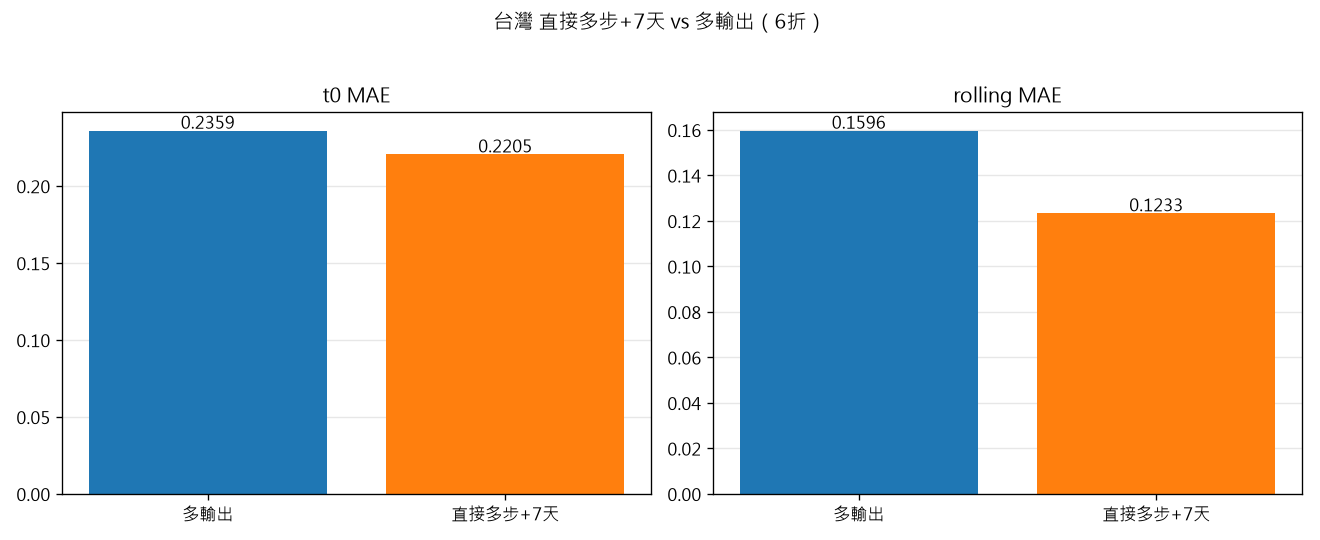
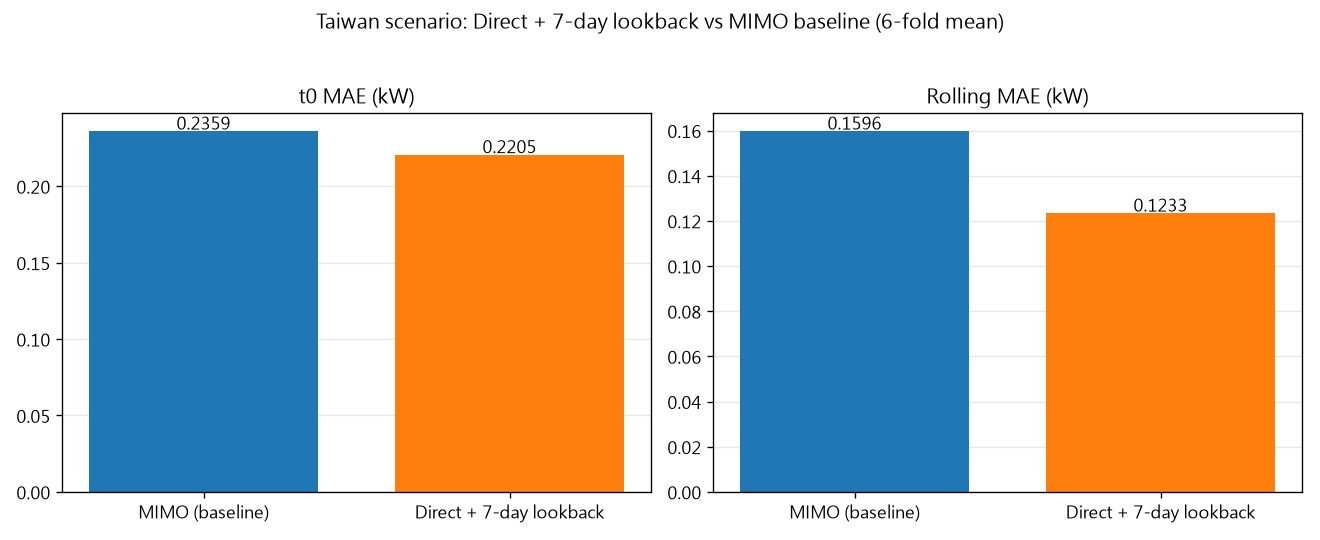
English method terms in figures; click-to-enlarge lightbox; wider gallery

diff --git a/index.html b/index.html
@@ -21,9 +21,9 @@
   th,td{border:1px solid var(--line);padding:8px 12px;text-align:left}
   th{background:#f1f0f7}
   td.num{text-align:right;font-variant-numeric:tabular-nums}
-  .gallery{display:grid;grid-template-columns:repeat(auto-fit,minmax(320px,1fr));gap:18px}
+  .gallery{display:grid;grid-template-columns:repeat(auto-fit,minmax(480px,1fr));gap:18px}
   figure{margin:0;background:var(--card);border:1px solid var(--line);border-radius:10px;padding:10px}
-  figure img{width:100%;border-radius:6px;display:block}
+  figure img{width:100%;border-radius:6px;display:block;cursor:zoom-in}
   figcaption{font-size:13px;color:var(--muted);margin-top:8px}
   figure.wide{grid-column:1/-1}
   ul.files{list-style:none;padding:0;margin:0;display:grid;grid-template-columns:repeat(auto-fit,minmax(300px,1fr));gap:8px}
@@ -31,6 +31,11 @@
   ul.files a{color:var(--accent);text-decoration:none;font-weight:600}
   ul.files small{color:var(--muted);display:block}
   .note{background:#f3fbf6;border-left:4px solid var(--accent2);padding:10px 14px;border-radius:6px;font-size:14px;margin:14px 0}
+  #lb{position:fixed;inset:0;background:rgba(0,0,0,.88);display:none;align-items:center;justify-content:center;z-index:99;cursor:zoom-out;padding:24px}
+  #lb.on{display:flex}
+  #lb img{max-width:96vw;max-height:92vh;width:auto;height:auto;border-radius:6px;box-shadow:0 8px 40px rgba(0,0,0,.6)}
+  #lb a{position:absolute;top:14px;right:18px;color:#fff;background:rgba(255,255,255,.15);padding:6px 12px;border-radius:6px;text-decoration:none;font-size:13px}
+  #lb a:hover{background:rgba(255,255,255,.3)}
   footer{margin-top:50px;color:var(--muted);font-size:13px;border-top:1px solid var(--line);padding-top:14px}
   footer a{color:var(--accent)}
 </style>
@@ -50,12 +55,13 @@
 </table>
 
 <h2>結果圖</h2>
+<p class="muted" style="margin:-6px 0 12px;color:#666;font-size:13px">點任一張圖可放大檢視；放大後再點一次或按 Esc 關閉，右上角可開啟原始檔。</p>
 <div class="gallery">
   <figure class="wide"><img src="results/figures/folds_curve.png" alt="folds_curve"><figcaption>6 折各取一個代表日：實際 vs 日初單次(t0) vs 日內滾動</figcaption></figure>
-  <figure><img src="results/figures/compare.png" alt="compare"><figcaption>直接多步+7 天 vs 多輸出 RF：t0 / rolling MAE（6 折）</figcaption></figure>
-  <figure><img src="results/figures/feature_importance_bar.png" alt="feature_importance_bar"><figcaption>特徵重要度長條圖</figcaption></figure>
-  <figure><img src="results/figures/feature_importance_detail.png" alt="feature_importance_detail"><figcaption>個別特徵重要度 Top-18</figcaption></figure>
-  <figure class="wide"><img src="results/figures/curves_t0.png" alt="curves_t0"><figcaption>6 折代表日整天預測：實際 vs 多輸出 vs 直接多步</figcaption></figure>
+  <figure><img src="results/figures/compare.png" alt="compare"><figcaption>Direct + 7-day lookback vs MIMO RF：t0 / rolling MAE（6 折）</figcaption></figure>
+  <figure class="wide"><img src="results/figures/feature_importance_bar.png" alt="feature_importance_bar"><figcaption>特徵重要度長條圖</figcaption></figure>
+  <figure class="wide"><img src="results/figures/feature_importance_detail.png" alt="feature_importance_detail"><figcaption>個別特徵重要度 Top-18</figcaption></figure>
+  <figure class="wide"><img src="results/figures/curves_t0.png" alt="curves_t0"><figcaption>6 折代表日整天預測：Actual vs MIMO vs Direct</figcaption></figure>
   <figure class="wide"><img src="results/figures/rolling_snapshots.png" alt="rolling_snapshots"><figcaption>日內滾動 — 6 個時點快照</figcaption></figure>
   <figure class="wide"><img src="results/figures/rolling.gif" alt="rolling"><figcaption>日內滾動動畫：每 15 分鐘刷新未來 24 小時</figcaption></figure>
   <figure class="wide"><img src="results/figures/rolling6.gif" alt="rolling6"><figcaption>6 折代表日同步滾動動畫（2×3）</figcaption></figure>
@@ -81,5 +87,16 @@
 
 <footer>本頁與所有檔案：<a href="https://github.com/souptomorrow-collab/load-report">github.com/souptomorrow-collab/load-report</a>（僅公開結果）</footer>
 </div>
+<div id="lb"><a id="lbopen" href="#" target="_blank" rel="noopener">開啟原始檔 ↗</a><img id="lbimg" alt=""></div>
+<script>
+(function(){
+  var lb=document.getElementById('lb'),im=document.getElementById('lbimg'),op=document.getElementById('lbopen');
+  document.querySelectorAll('.gallery figure img').forEach(function(el){
+    el.addEventListener('click',function(){im.src=el.src;op.href=el.src;lb.classList.add('on');});
+  });
+  lb.addEventListener('click',function(e){if(e.target!==op){lb.classList.remove('on');im.src='';}});
+  document.addEventListener('keydown',function(e){if(e.key==='Escape'){lb.classList.remove('on');im.src='';}});
+})();
+</script>
 </body>
 </html>

diff --git a/results/README.md b/results/README.md
@@ -16,10 +16,10 @@
 | 檔案 | 內容 |
 |------|------|
 | `folds_curve.png` | 6 折各取一個代表日：實際 vs 日初單次(t0) vs 日內滾動 |
-| `feature_importance_bar.png` | 各時步（h=1/24/96）特徵重要度長條圖（區塊加總） |
-| `feature_importance_detail.png` | 各時步個別特徵重要度 Top-18 |
-| `compare.png` | 直接多步+7 天 vs 傳統多輸出 RF：t0 / rolling MAE（6 折） |
-| `curves_t0.png` | 6 折代表日整天預測：實際 vs 多輸出 vs 直接多步 |
+| `feature_importance_bar.png` | Per-step (h=1/24/96) feature importance, block sums |
+| `feature_importance_detail.png` | Per-step top-18 individual feature importance |
+| `compare.png` | Direct + 7-day lookback vs MIMO RF baseline：t0 / rolling MAE（6 折） |
+| `curves_t0.png` | 6 折代表日整天預測：Actual vs MIMO vs Direct |
 | `rolling_snapshots.png` | 日內滾動 6 個時點快照 |
 | `rolling.gif` | 日內滾動動畫（每 15 分刷新未來 24h） |
 | `rolling6.gif` | 6 折代表日同步滾動動畫（2×3） |
